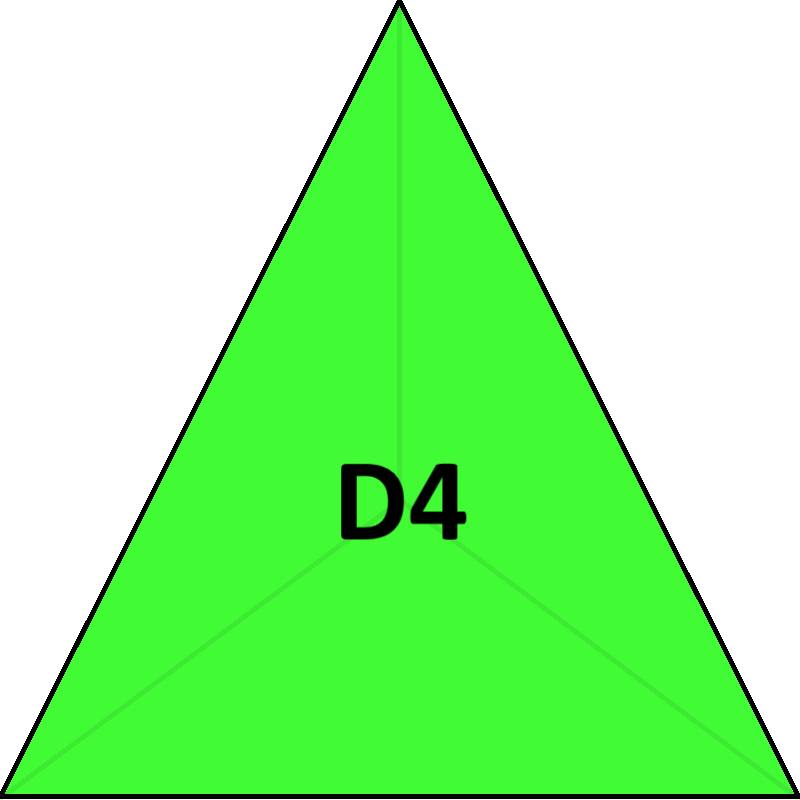
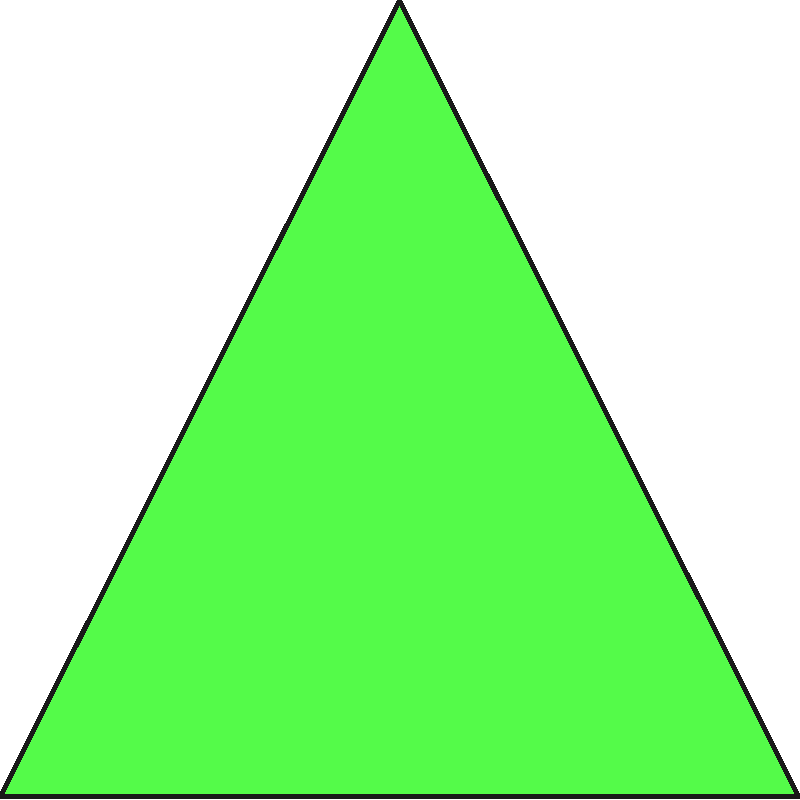
replaced d4 image and amended positioning

diff --git a/D&D_dice_roller.html b/D&D_dice_roller.html
@@ -51,10 +51,11 @@
           <p class="roll-scorenew" id="score6"></p>
         </div>
         <div class="dice-section">
-          <img src="assets/images/d4.png" alt="A bright green D4 di">
-          <h3>D4</h3>
-          <input value="Click to roll" onclick="d4Roller()" type="button" id="4roller" class="roll-button">
-          <p class="roll-score" id="score4">Score:</p>
+          <!-- <img src="assets/images/d4.png" alt="A bright green D4 di"> -->
+          <h3 class="headingnew">D4</h3>
+          <input value="Click to roll" onclick="d4Roller()" type="button" id="4roller" class="roll-buttonnew">
+          <img src="assets/images/d4.png" alt="A bright green D4 di" class="imgnew">
+          <p class="roll-scorenew" id="score4"></p>
         </div>
         <div class="dice-section">
           <img src="assets/images/d100.png" alt="A bright green D100 di">

diff --git a/D&D_dice_roller.js b/D&D_dice_roller.js
@@ -44,7 +44,8 @@
 
         function d4Roller() {
           let result4 = (Math.floor(Math.random() * 4) + 1);
-          document.getElementById('score4').innerHTML = "Score: " + result4;
+          // document.getElementById('score4').innerHTML = "Score: " + result4;
+          document.getElementById('score4').innerHTML = result4;
         }
 
         function d100Roller() {

diff --git a/assets/stylesheets/style.css b/assets/stylesheets/style.css
@@ -131,6 +131,11 @@ img {
     left: 1%;
 }
 
+#score4 {
+    top: -20px;
+    left: 1%;
+}
+
 #crit {
     color: #41FB35;
     padding: 5%;
